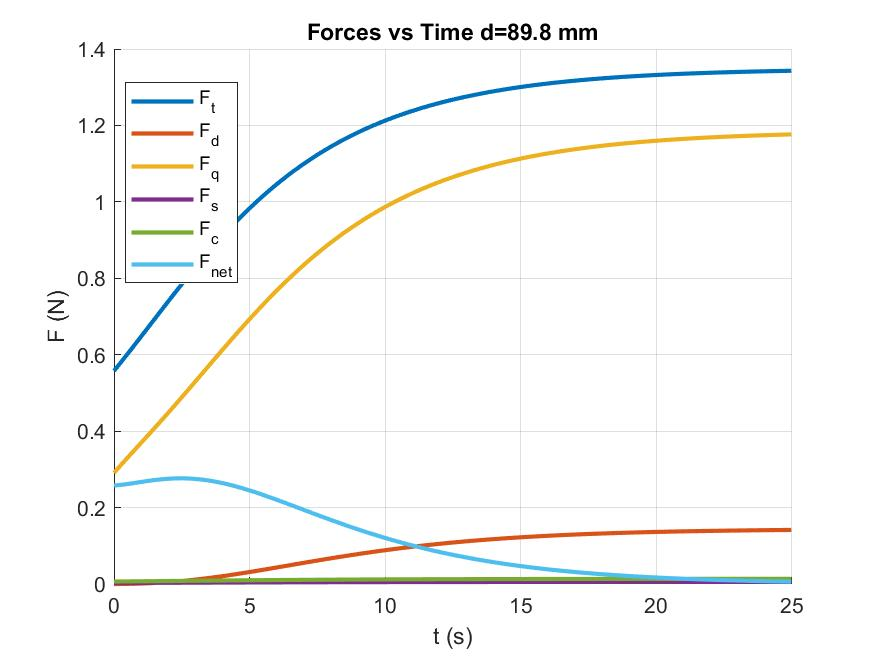
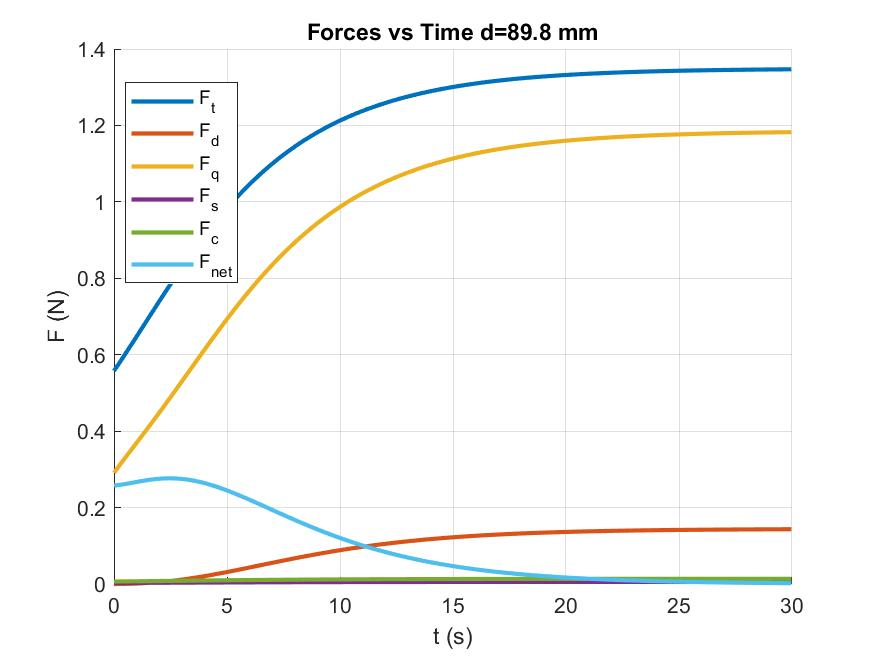
Increased Simulation Time to 30 s

diff --git a/Main.m b/Main.m
@@ -29,7 +29,7 @@ fprintf(fileID, 'd_min=%.1f mm d_max=%.1f mm d_step=%.1f mm\n', 1e3*d_min, 1e3*d
 air = Air(5);
 [v_top, d_best] = SearchWheelDiameters(air, fan, d_range, F_d);
 vehicle = Vehicle(air, fan, d_best, F_d);
-v = Simulate(vehicle, 25);
+v = Simulate(vehicle, 30);
 [v_min, v_max] = vehicle.SpeedBoundary();
 fprintf(fileID, 'd=%.1f mm v_top=%.3fm/s B=[%.3f, %.3f]m/s\n', 1e3*d_best, v_top, v_min, v_max);
 
